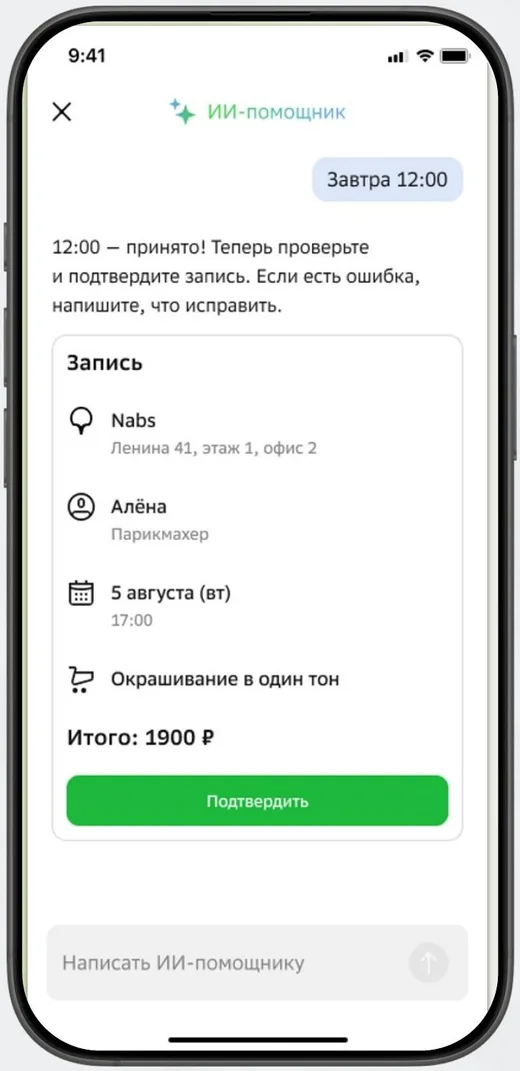
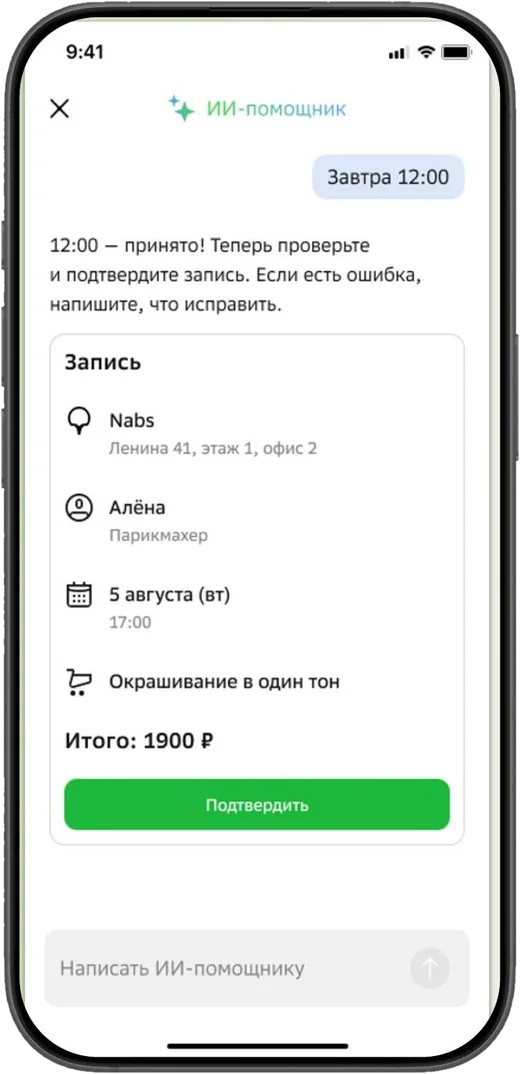
Скриншоты телефонов без подложки слайда, тень по форме

diff --git a/index.html b/index.html
@@ -244,12 +244,12 @@
   /* ---------- screenshots ---------- */
   .phone-wrap{display:grid;justify-items:center;gap:18px}
   .shots{display:flex;gap:18px;justify-content:center;align-items:flex-start;perspective:1400px;width:100%}
-  .shots img{width:min(46%,240px);height:auto;border-radius:clamp(20px,9%,34px);box-shadow:0 34px 80px rgba(0,0,0,.65),0 0 0 1px rgba(255,255,255,.05);
-    transition:transform .7s cubic-bezier(.2,.8,.2,1),box-shadow .7s}
+  .shots img{width:min(46%,240px);height:auto;filter:drop-shadow(0 30px 40px rgba(0,0,0,.6));
+    transition:transform .7s cubic-bezier(.2,.8,.2,1),filter .7s}
   .shots img:nth-child(2){margin-top:48px}
   .shots:hover img:first-child{transform:rotateY(7deg) translateY(-8px)}
   .shots:hover img:nth-child(2){transform:rotateY(-7deg) translateY(-8px)}
-  .shots:hover img{box-shadow:0 44px 100px rgba(0,0,0,.7),0 0 60px rgba(74,222,74,.12)}
+  .shots:hover img{filter:drop-shadow(0 40px 50px rgba(0,0,0,.65)) drop-shadow(0 0 30px rgba(74,222,74,.14))}
   .shots.one img{width:100%;max-width:560px;border-radius:18px;border:1px solid var(--line-2)}
   .shots.one:hover img{transform:translateY(-6px)}
   .phone-cap{font-size:14px;color:var(--muted);text-align:center;max-width:36ch}
